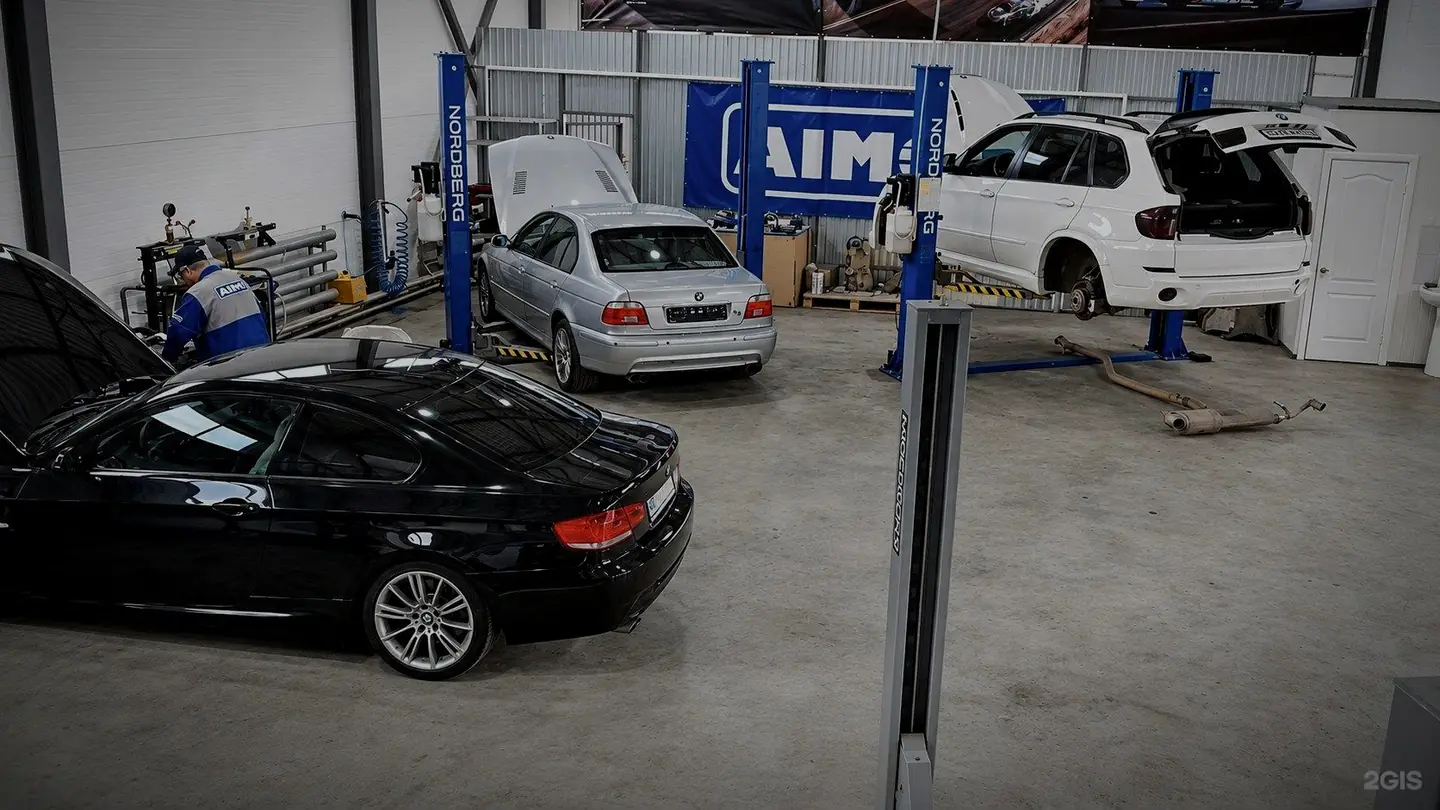
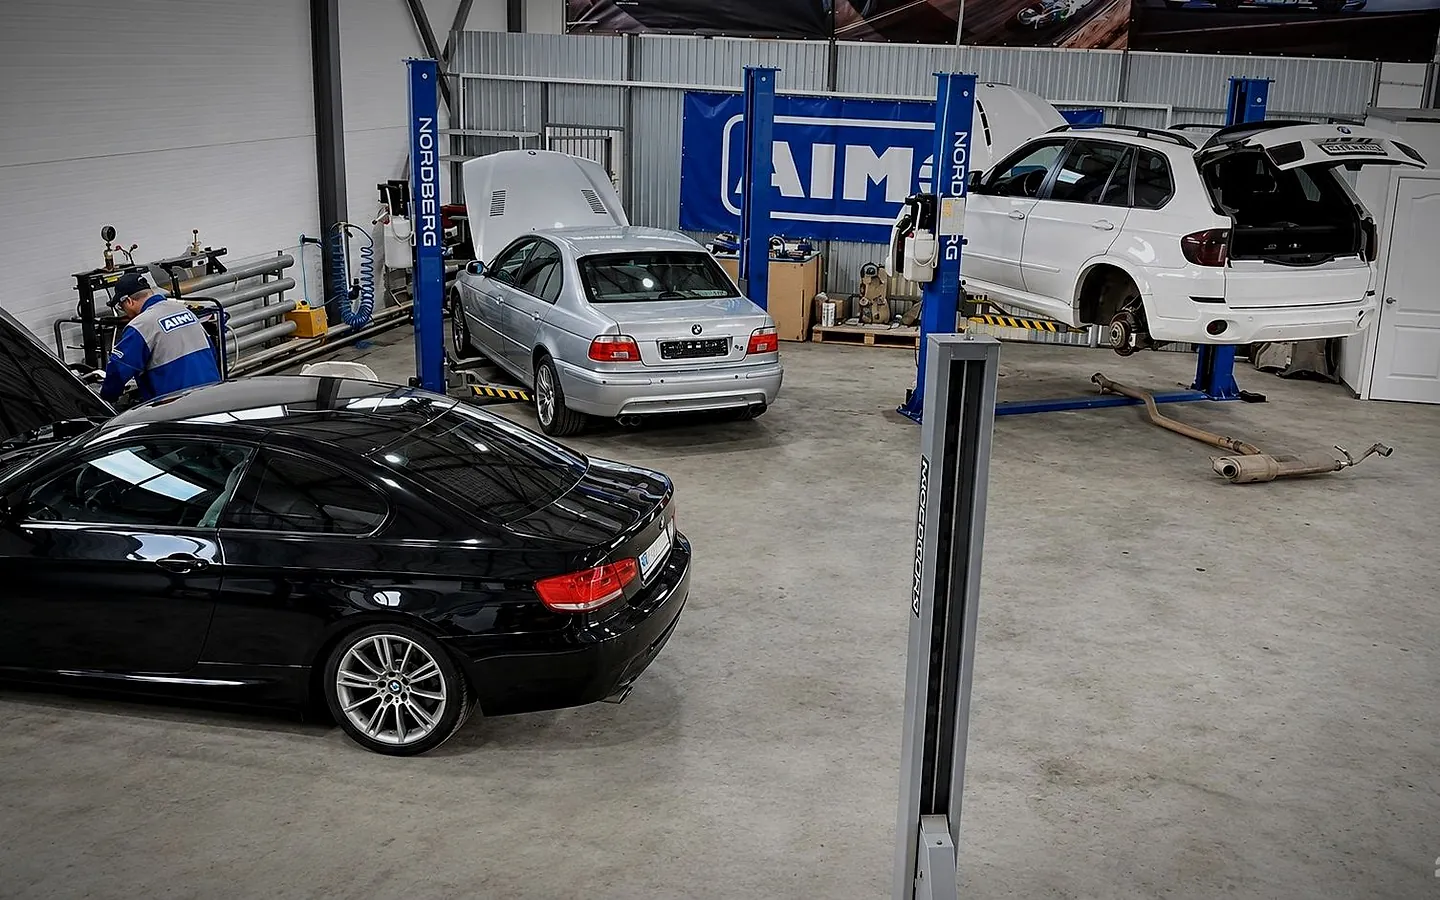
Service tiles: photo above text, crisper images; bot cover art

diff --git a/index.html b/index.html
@@ -16,7 +16,7 @@
 <link rel="preconnect" href="https://fonts.googleapis.com"><link rel="preconnect" href="https://fonts.gstatic.com" crossorigin>
 <link rel="stylesheet" href="https://fonts.googleapis.com/css2?family=Manrope:wght@400;500;600;700;800&family=Jost:wght@600&display=swap">
 <link rel="preload" as="image" href="img/hero-1200.webp" imagesrcset="img/hero-600.webp 600w, img/hero-1200.webp 1200w" imagesizes="(max-width:1100px) 100vw, 560px" fetchpriority="high">
-<link rel="stylesheet" href="site.css?v=mwi8rbze">
+<link rel="stylesheet" href="site.css?v=mwi945hq">
 <script>if(!/[?&]static/.test(location.search))document.documentElement.classList.add('js');if(/tgWebApp/.test(location.hash+location.search)){document.documentElement.classList.add('tg');document.write('<script src="https://telegram.org/js/telegram-web-app.js"><\/script>')}</script>
 <script type="application/ld+json">{"@context":"https://schema.org","@type":"AutoRepair","name":"WERTlab","url":"https://ivanich-neiro.github.io/wertlab-variants/","image":"https://ivanich-neiro.github.io/wertlab-variants/img/og.jpg","telephone":"+79068977924","address":{"@type":"PostalAddress","streetAddress":"ул. Буммашевская, 3а","addressLocality":"Ижевск","addressRegion":"Удмуртская Республика","addressCountry":"RU"},"geo":{"@type":"GeoCoordinates","latitude":56.882068,"longitude":53.226512},"openingHoursSpecification":[{"@type":"OpeningHoursSpecification","dayOfWeek":["Monday","Tuesday","Wednesday","Thursday","Friday"],"opens":"09:00","closes":"19:00"}],"priceRange":"₽₽₽","brand":[{"@type":"Brand","name":"BMW"},{"@type":"Brand","name":"Porsche"},{"@type":"Brand","name":"Range Rover"},{"@type":"Brand","name":"Li Auto"},{"@type":"Brand","name":"Zeekr"}],"sameAs":["https://2gis.ru/izhevsk/firm/70000001037240729"]}</script>
 </head>
@@ -63,10 +63,10 @@
 <section class="section" id="services"><div class="wrap">
 <div class="head rv"><h2>Чем мы <em>занимаемся</em></h2><p>Каждое направление начинается с диагностики. Работы и запчасти согласуем заранее.</p></div>
 <div class="tiles"><a class="tile t0 rv" href="#prices" data-cat="maintenance"><figure class="ph"><img src="img/service-maintenance-720.webp" srcset="img/service-maintenance-720.webp 720w, img/service-maintenance-1440.webp 1440w" sizes="(max-width:760px) 100vw, (max-width:1100px) 50vw, 58vw" alt="Мастер обслуживает BMW 5 серии на подъёмнике" loading="lazy" decoding="async" ></figure>
-<div class="tile-body"><h3>Плановое обслуживание</h3><p>Масло, фильтры, свечи и технические жидкости по регламенту вашей модели.</p><span class="tile-foot"><b>от 790 ₽</b><i><svg class="arr" viewBox="0 0 20 20" aria-hidden="true"><path d="M3 10h13M11 4.5 16.5 10 11 15.5"/></svg></i></span></div></a><a class="tile t1 rv" href="#prices" data-cat="engine"><figure class="ph"><img src="img/service-engine-720.webp" srcset="img/service-engine-720.webp 720w, img/service-engine-1440.webp 1440w" sizes="(max-width:760px) 100vw, (max-width:1100px) 50vw, 42vw" alt="Автомобили BMW на постах ремонта" loading="lazy" decoding="async" ></figure>
-<div class="tile-body"><h3>Двигатель и трансмиссия</h3><p>ГРМ, течи, ремонт ГБЦ, АКПП и сцепление после точной диагностики.</p><span class="tile-foot"><b>от 2 490 ₽</b><i><svg class="arr" viewBox="0 0 20 20" aria-hidden="true"><path d="M3 10h13M11 4.5 16.5 10 11 15.5"/></svg></i></span></div></a><a class="tile t2 rv" href="#prices" data-cat="suspension"><figure class="ph"><img src="img/service-suspension-720.webp" srcset="img/service-suspension-720.webp 720w, img/service-suspension-1440.webp 1440w" sizes="(max-width:760px) 100vw, (max-width:1100px) 50vw, 42vw" alt="Стенд сход-развала" loading="lazy" decoding="async" ></figure>
-<div class="tile-body"><h3>Ходовая и сход-развал</h3><p>Подвеска, рулевое управление, тормоза и геометрия колёс.</p><span class="tile-foot"><b>от 1 490 ₽</b><i><svg class="arr" viewBox="0 0 20 20" aria-hidden="true"><path d="M3 10h13M11 4.5 16.5 10 11 15.5"/></svg></i></span></div></a><a class="tile t3 rv" href="#prices" data-cat="diagnostics"><figure class="ph"><img src="img/service-diagnostics-720.webp" srcset="img/service-diagnostics-720.webp 720w, img/service-diagnostics-1440.webp 1440w" sizes="(max-width:760px) 100vw, (max-width:1100px) 50vw, 58vw" alt="Диагностика автомобиля на подъёмнике" loading="lazy" decoding="async" ></figure>
-<div class="tile-body"><h3>Диагностика и электрика</h3><p>Компьютерная диагностика, поиск неисправностей, проверка перед покупкой.</p><span class="tile-foot"><b>от 990 ₽</b><i><svg class="arr" viewBox="0 0 20 20" aria-hidden="true"><path d="M3 10h13M11 4.5 16.5 10 11 15.5"/></svg></i></span></div></a></div>
+<div class="tile-body"><h3>Плановое обслуживание</h3><p>Масло, фильтры, свечи и технические жидкости по регламенту вашей модели.</p><span class="tile-foot"><b>от 790 ₽</b><span class="tile-go"><span>Цены и запись</span><i><svg class="arr" viewBox="0 0 20 20" aria-hidden="true"><path d="M3 10h13M11 4.5 16.5 10 11 15.5"/></svg></i></span></span></div></a><a class="tile t1 rv" href="#prices" data-cat="engine"><figure class="ph"><img src="img/service-engine-720.webp" srcset="img/service-engine-720.webp 720w, img/service-engine-1440.webp 1440w" sizes="(max-width:760px) 100vw, (max-width:1100px) 50vw, 42vw" alt="Автомобили BMW на постах ремонта" loading="lazy" decoding="async" ></figure>
+<div class="tile-body"><h3>Двигатель и трансмиссия</h3><p>ГРМ, течи, ремонт ГБЦ, АКПП и сцепление после точной диагностики.</p><span class="tile-foot"><b>от 2 490 ₽</b><span class="tile-go"><span>Цены и запись</span><i><svg class="arr" viewBox="0 0 20 20" aria-hidden="true"><path d="M3 10h13M11 4.5 16.5 10 11 15.5"/></svg></i></span></span></div></a><a class="tile t2 rv" href="#prices" data-cat="suspension"><figure class="ph"><img src="img/service-suspension-720.webp" srcset="img/service-suspension-720.webp 720w, img/service-suspension-1440.webp 1440w" sizes="(max-width:760px) 100vw, (max-width:1100px) 50vw, 42vw" alt="Стенд сход-развала" loading="lazy" decoding="async" ></figure>
+<div class="tile-body"><h3>Ходовая и сход-развал</h3><p>Подвеска, рулевое управление, тормоза и геометрия колёс.</p><span class="tile-foot"><b>от 1 490 ₽</b><span class="tile-go"><span>Цены и запись</span><i><svg class="arr" viewBox="0 0 20 20" aria-hidden="true"><path d="M3 10h13M11 4.5 16.5 10 11 15.5"/></svg></i></span></span></div></a><a class="tile t3 rv" href="#prices" data-cat="diagnostics"><figure class="ph"><img src="img/service-diagnostics-720.webp" srcset="img/service-diagnostics-720.webp 720w, img/service-diagnostics-1440.webp 1440w" sizes="(max-width:760px) 100vw, (max-width:1100px) 50vw, 58vw" alt="Диагностика автомобиля на подъёмнике" loading="lazy" decoding="async" ></figure>
+<div class="tile-body"><h3>Диагностика и электрика</h3><p>Компьютерная диагностика, поиск неисправностей, проверка перед покупкой.</p><span class="tile-foot"><b>от 990 ₽</b><span class="tile-go"><span>Цены и запись</span><i><svg class="arr" viewBox="0 0 20 20" aria-hidden="true"><path d="M3 10h13M11 4.5 16.5 10 11 15.5"/></svg></i></span></span></div></a></div>
 </div></section>
 
 <section class="section prices-sec" id="prices"><div class="wrap">
@@ -167,6 +167,6 @@
 
 <div class="dock" id="dock"><a class="btn btn-ghost" href="tel:+79068977924"><svg class="ico" viewBox="0 0 24 24" aria-hidden="true"><path d="M6.6 3.5h2.8l1.4 4.2-2 1.4a12 12 0 0 0 6.1 6.1l1.4-2 4.2 1.4v2.8a2 2 0 0 1-2.2 2A16.6 16.6 0 0 1 4.6 5.7a2 2 0 0 1 2-2.2Z"/></svg><span>Позвонить</span></a><a class="btn" href="#booking"><span>Записаться</span></a></div>
 <script>window.WL={api:"https://wertlab-bot.aiofm.workers.dev",groups:[{"id":"maintenance","short":"ТО","name":"Техническое обслуживание"},{"id":"diagnostics","short":"Диагностика","name":"Диагностика и электрика"},{"id":"engine","short":"Двигатель","name":"Двигатель"},{"id":"transmission","short":"КПП","name":"КПП и сцепление"},{"id":"suspension","short":"Подвеска","name":"Подвеска и рулевое"},{"id":"brakes","short":"Тормоза","name":"Тормозная система"},{"id":"tires","short":"Шиномонтаж","name":"Шиномонтаж"},{"id":"alignment","short":"Сход-развал","name":"Сход-развал"}],hours:{"1":[9,19],"2":[9,19],"3":[9,19],"4":[9,19],"5":[9,19]},tz:4}</script>
-<script src="site.js?v=mwi8rbze" defer></script>
+<script src="site.js?v=mwi945hq" defer></script>
 </body>
 </html>

diff --git a/site.css b/site.css
@@ -137,20 +137,22 @@ h2{font-size:clamp(34px,4.2vw,62px);line-height:1.04}
 
 /* service tiles */
 .tiles{display:grid;grid-template-columns:repeat(12,1fr);gap:20px}
-.tile{position:relative;display:flex;align-items:flex-end;min-height:540px;border-radius:var(--r);overflow:hidden;color:var(--ink);isolation:isolate}
 .t0,.t3{grid-column:span 7}.t1,.t2{grid-column:span 5}
-.tile .ph{position:absolute;inset:0;z-index:-2;border-radius:0}
-.tile:after{content:'';position:absolute;inset:0;z-index:-1;background:linear-gradient(0deg,#09090cf5 0%,#09090c8c 38%,transparent 70%);transition:opacity .5s}
-.tile:before{content:'';position:absolute;inset:0;z-index:3;border-radius:inherit;box-shadow:inset 0 0 0 1px var(--line);transition:box-shadow .4s;pointer-events:none}
-.tile-body{padding:40px;width:100%}
-.tile h3{font-size:34px;line-height:1.08}
-.tile p{margin-top:14px;max-width:26em;color:#fafafabd;font-size:16px}
-.tile-foot{display:flex;align-items:center;justify-content:space-between;margin-top:28px;padding-top:22px;border-top:1px solid #fafafa2e}
+.tile{position:relative;display:flex;flex-direction:column;border-radius:var(--r);overflow:hidden;color:var(--ink);background:var(--s1);box-shadow:inset 0 0 0 1px var(--line);isolation:isolate;transition:transform .6s var(--ease),box-shadow .4s,background .4s}
+.tile .ph{position:relative;inset:auto;z-index:0;flex:1 1 auto;min-height:300px;aspect-ratio:16/10;margin:8px 8px 0;border-radius:calc(var(--r) - 6px)}
+.tile .ph:after{content:'';position:absolute;inset:0;border-radius:inherit;box-shadow:inset 0 0 0 1px #ffffff12;background:linear-gradient(180deg,transparent 62%,#09090c66);pointer-events:none}
+.tile-tag{position:absolute;left:16px;top:16px;z-index:2;padding:7px 13px;border-radius:999px;background:#09090cb8;backdrop-filter:blur(10px);-webkit-backdrop-filter:blur(10px);font-size:14px;font-weight:600;color:var(--ink);box-shadow:inset 0 0 0 1px #ffffff1f}
+.tile-body{padding:28px 32px 30px;width:100%}
+.tile h3{font-size:30px;line-height:1.1}
+.tile p{margin-top:10px;max-width:30em;color:var(--muted);font-size:16px}
+.tile-foot{display:flex;align-items:center;justify-content:space-between;gap:16px;margin-top:24px;padding-top:20px;border-top:1px solid var(--line)}
 .tile-foot b{font-size:20px;font-weight:600;color:var(--accent-hi);font-variant-numeric:tabular-nums}
-.tile-foot i{width:52px;height:52px;border-radius:50%;display:grid;place-items:center;box-shadow:inset 0 0 0 1px #fafafa4d;transition:background .35s,box-shadow .35s,transform .5s var(--ease)}
-@media(hover:hover){.tile:hover .ph img{transform:scale(1.05)}
-.tile:hover:before{box-shadow:inset 0 0 0 1px #8a2eff99}
+.tile-go{display:inline-flex;align-items:center;gap:12px;font-size:15px;font-weight:600;color:var(--ink)}
+.tile-foot i{width:48px;height:48px;border-radius:50%;display:grid;place-items:center;background:var(--s3);box-shadow:inset 0 0 0 1px var(--line2);transition:background .35s,box-shadow .35s,transform .5s var(--ease)}
+@media(hover:hover){.tile:hover{transform:translateY(-4px);background:var(--s2);box-shadow:inset 0 0 0 1px #8a2eff80,0 24px 60px -30px #8a2eff66}
+.tile:hover .ph img{transform:scale(1.045)}
 .tile:hover .tile-foot i{background:var(--accent);box-shadow:none;transform:rotate(-45deg)}}
+.tile:active{transform:scale(.99)}
 .tile:active .tile-foot i{transform:rotate(-45deg) scale(.92)}
 
 /* prices */
@@ -313,7 +315,7 @@ h2{font-size:clamp(34px,4.2vw,62px);line-height:1.04}
 .pl-tab{flex-shrink:0;padding:11px 18px;font-size:15px;border-radius:999px;box-shadow:inset 0 0 0 1px var(--line);scroll-snap-align:start}
 .pl-tab:before{display:none}
 .pl-tab[aria-selected=true]{box-shadow:inset 0 0 0 1.5px var(--accent);background:var(--accent-lo)}
-.tiles .tile{grid-column:span 6;min-height:460px}
+.tiles .tile{grid-column:span 6}
 .steps{grid-template-columns:1fr;gap:12px}
 .steps li{display:grid;grid-template-columns:auto 1fr;column-gap:24px;padding:28px}
 .step-ico{grid-row:span 2;margin:0}
@@ -351,9 +353,11 @@ h1{font-size:clamp(40px,11vw,54px)}
 .brands span{padding:11px 18px;font-size:15px}
 .head{margin-bottom:40px}
 .tiles{gap:12px}
-.tiles .tile{grid-column:1/-1;min-height:400px}
-.tile-body{padding:24px}
-.tile h3{font-size:27px}
+.tiles .tile{grid-column:1/-1}
+.tile .ph{min-height:0;margin:6px 6px 0}
+.tile-body{padding:22px 22px 24px}
+.tile h3{font-size:26px}
+.tile-go span{display:none}
 .pl-head h3{font-size:30px}
 .pl-row{flex-wrap:wrap;gap:4px 12px;padding:16px 0}
 .pl-name{flex:1 1 100%;font-size:17px}
